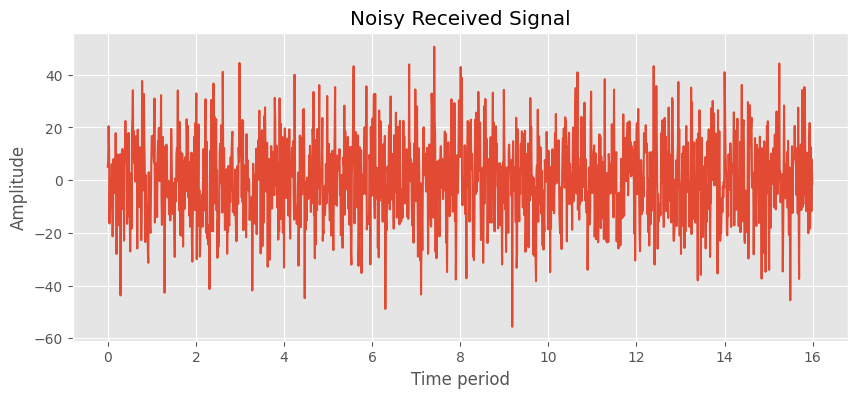
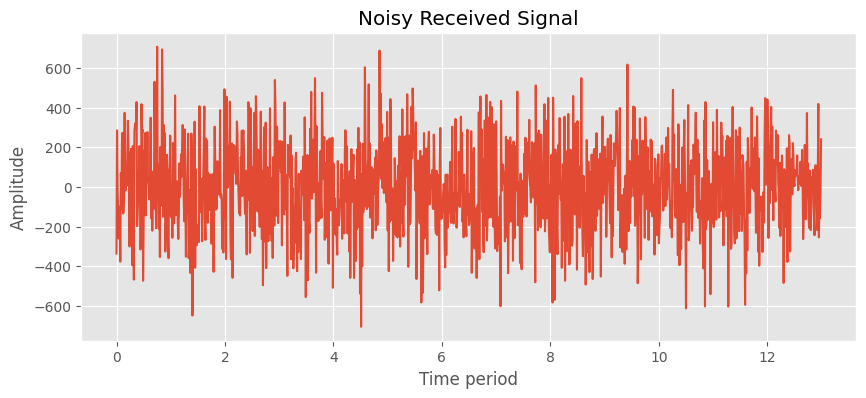
Last

diff --git a/Minh_ASK/ASK_official.py b/Minh_ASK/ASK_official.py
@@ -54,8 +54,8 @@ def disp():
     ax2.set_xlabel("Time period")
     ax2.set_ylabel("Amplitude")
 
-    plt.show()
-    fig.savefig('D:\Miniproject_Ce\Minh_ASK\pic\Carriers_ask.png', bbox_inches='tight')
+    # plt.show()
+    fig.savefig('D:\Miniproject_Ce\Minh_ASK\pic\Modulate_ask.png', bbox_inches='tight')
 
     fig, (ax1, ax2) = plt.subplots(2, 1, figsize=(10, 5))
     fig.subplots_adjust( hspace = 0.5)
@@ -72,8 +72,8 @@ def disp():
     ax2.set_ylabel("Amplitude")
     ax2.set_ylim(bottom=-10, top=10)
 
-    plt.show()
-    fig.savefig('D:\Miniproject_Ce\Minh_ASK\pic\Modulate_ask.png', bbox_inches='tight')
+    # plt.show()
+    fig.savefig('D:\Miniproject_Ce\Minh_ASK\pic\Carriers_ask.png', bbox_inches='tight')
 
     fig, (ax1) = plt.subplots(1, 1, figsize=(10, 4))
     fig.subplots_adjust( hspace = 0.5)
@@ -82,20 +82,20 @@ def disp():
     ax1.set_title("Noisy Received Signal")
     ax1.set_xlabel("Time period")
     ax1.set_ylabel("Amplitude")
-    plt.show()
+    # plt.show()
     fig.savefig('D:\Miniproject_Ce\Minh_ASK\pic\Demodulate_AWGN_ask.png', bbox_inches='tight')
    
 
 # bitlen = 200
 nb = 100  # number of samples per bit
-A1 = 10 # Carrier1 signal amplitude 
-A2 = 5  # Carrier2 signal amplitude  
+A1 = 20 # Carrier1 signal amplitude 
+A2 = 0  # Carrier2 signal amplitude  
 f = 5  # Carrier signal frequency
-N0 = 2 # The power spectral density of the Gaussian noise
+N0 = 1000 # The power spectral density of the Gaussian noise
 # binary_seq = [random.randint(0,1) for x in range(0,bitlen)]
-
-binary_seq = np.array([1, 1, 1, 0, 1, 1, 0, 1, 1, 0, 0, 0, 1, 0, 1, 0])
-bitlen = len(binary_seq)
+# the binary sequence
+binary_seq = np.array([1, 0, 0, 1, 1, 1, 0, 1, 1, 1, 0, 0, 0]) 
+bitlen = len(binary_seq) # the length of binary sequence
 print('The input binary sequence is : {}\n'.format(binary_seq))
 
 timeline = np.arange(0 , bitlen, 0.01)
@@ -104,7 +104,7 @@ carrier2 = A2*np.cos(2*np.pi*f*timeline)
 
 mod_signal, binary_signal = ASKmod(binary_seq)
 
-noise = 15*np.sqrt(N0/2)*np.random.randn(bitlen * nb)
+noise = 10*np.sqrt(N0/2)*np.random.randn(bitlen * nb)
 noisy_signal= mod_signal + noise
 
 binary_demod_noisy = ASKdemod(noisy_signal)
